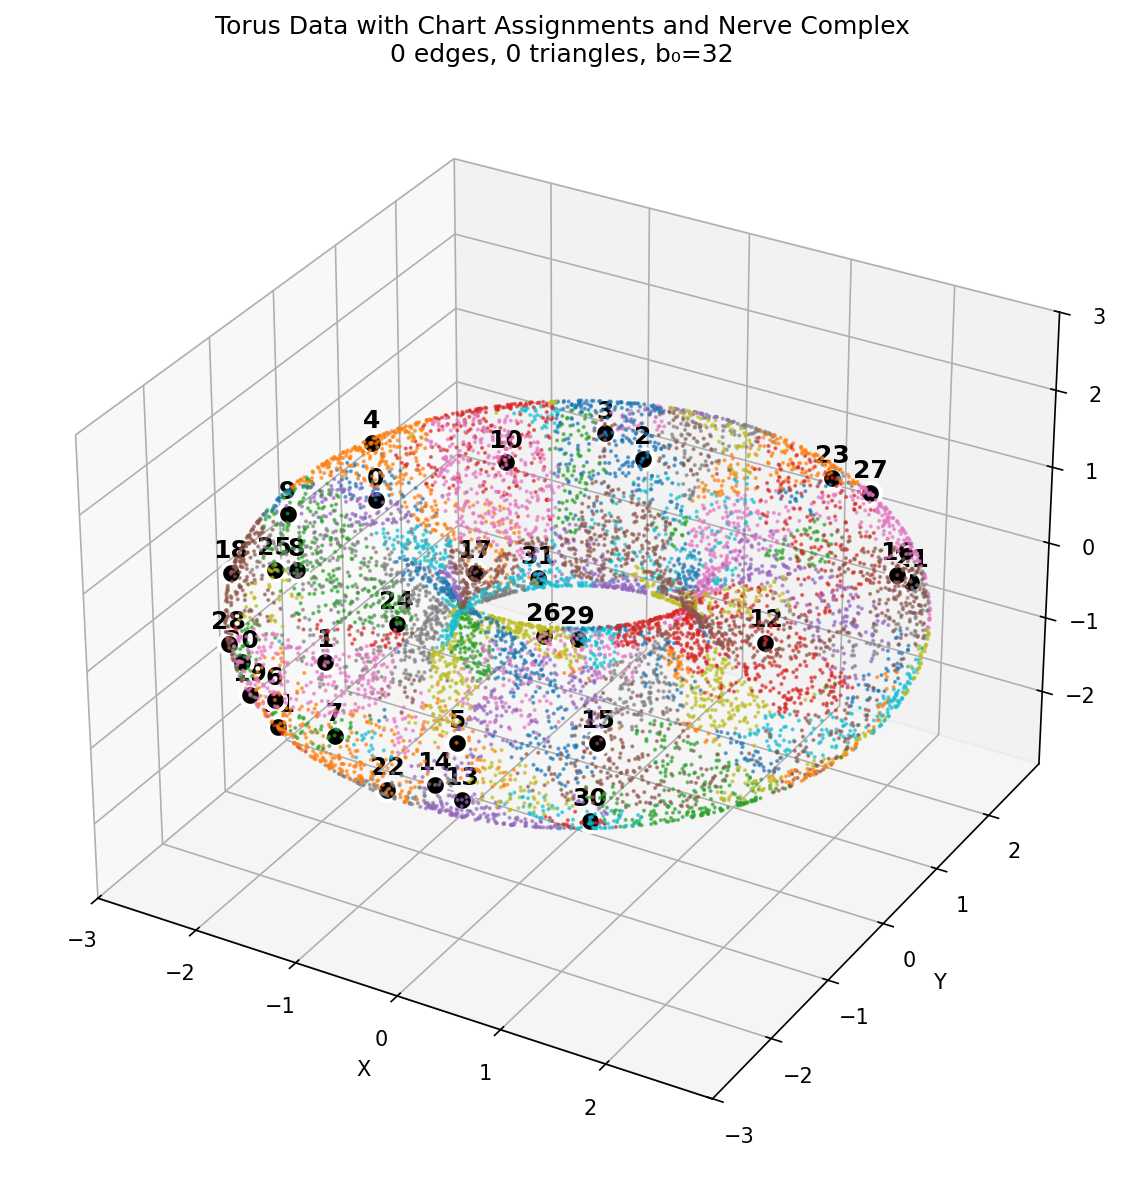
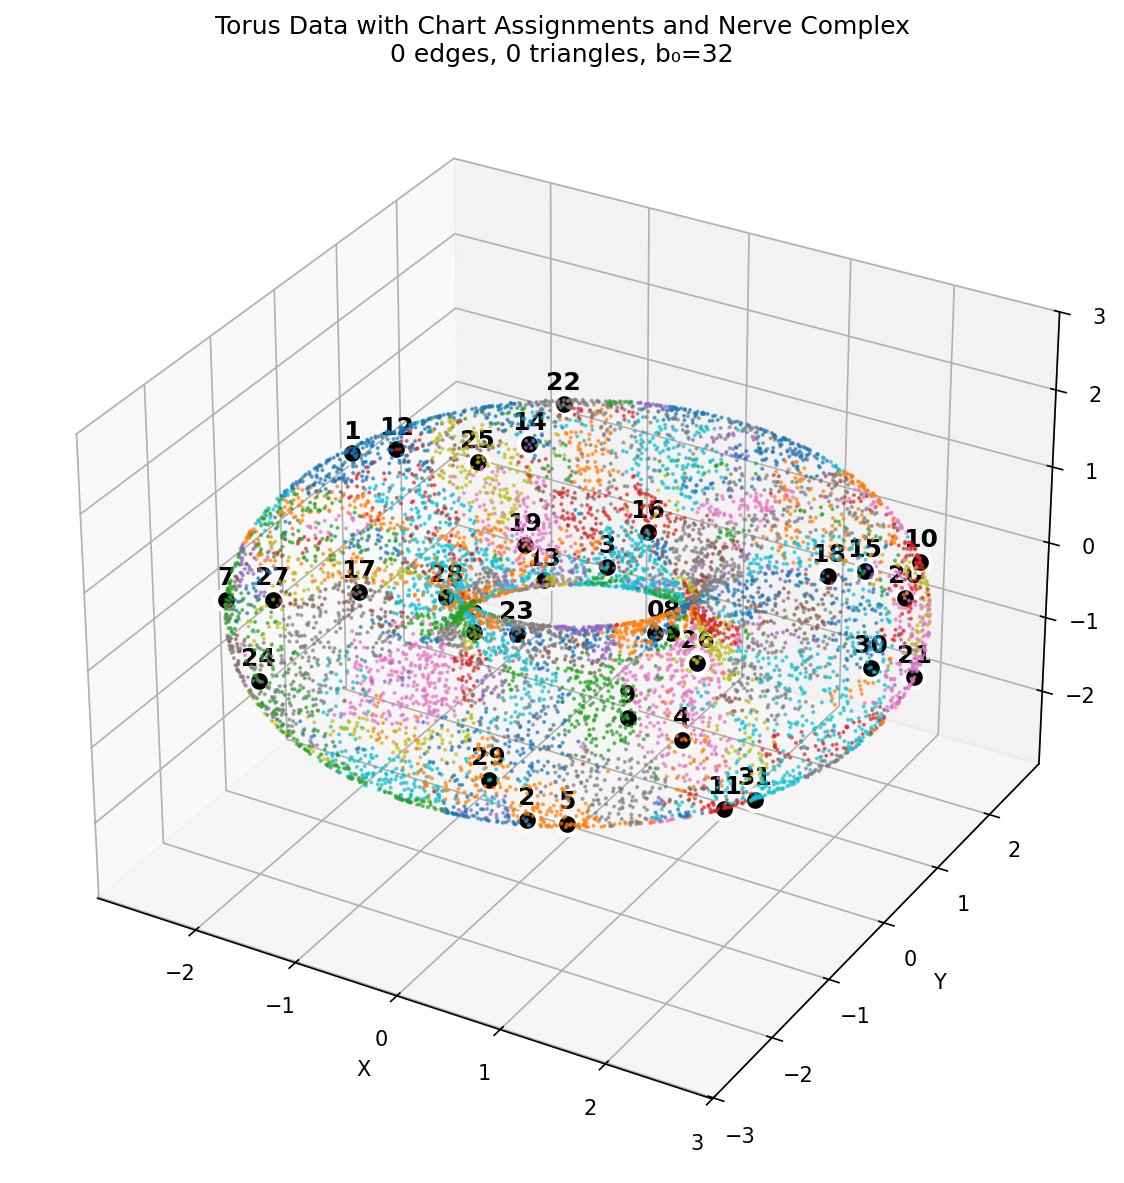
meow

diff --git a/atlas_autoencoder.py b/atlas_autoencoder.py
@@ -10,7 +10,7 @@ import seaborn as sns
 
 
 class BettiEstimator:
-    def __init__(self, num_charts: int, tau: float = 0.035):
+    def __init__(self, num_charts: int, tau: float = 0.5):
         self.num_charts = num_charts
         self.tau = tau
         self.overlap_weights = torch.zeros((num_charts, num_charts))
@@ -420,6 +420,54 @@ class BettiEstimator:
         plt.show()
         
         return fig
+    
+    def visualize_chart_topology(self, model, alpha: torch.Tensor, save_path: str = "chart_topology.png"):
+        """Visualize the topographic organization of charts"""
+        grid_size = model.chart_grid_size
+        positions = model.chart_positions
+        
+        # Create grid visualization
+        fig, (ax1, ax2) = plt.subplots(1, 2, figsize=(12, 5))
+        
+        # Plot 1: Chart usage in grid layout
+        chart_usage = alpha.mean(dim=0).numpy()
+        usage_grid = np.zeros((grid_size, grid_size))
+        
+        for i in range(model.num_charts):
+            row, col = positions[i].int().tolist()
+            if row < grid_size and col < grid_size:
+                usage_grid[row, col] = chart_usage[i]
+        
+        im1 = ax1.imshow(usage_grid, cmap='viridis', interpolation='nearest')
+        ax1.set_title('Chart Usage (Topographic Layout)')
+        ax1.set_xlabel('Grid Column')
+        ax1.set_ylabel('Grid Row')
+        
+        # Add text annotations
+        for i in range(model.num_charts):
+            row, col = positions[i].int().tolist()
+            if row < grid_size and col < grid_size:
+                ax1.text(col, row, f'{i}', ha='center', va='center', 
+                        color='white' if chart_usage[i] < chart_usage.max()/2 else 'black',
+                        fontsize=8, weight='bold')
+        
+        plt.colorbar(im1, ax=ax1, shrink=0.8)
+        
+        # Plot 2: Spatial distances between charts
+        spatial_distances = torch.cdist(positions, positions).numpy()
+        im2 = ax2.imshow(spatial_distances, cmap='plasma', interpolation='nearest')
+        ax2.set_title('Spatial Distances Between Charts')
+        ax2.set_xlabel('Chart Index')
+        ax2.set_ylabel('Chart Index')
+        plt.colorbar(im2, ax=ax2, shrink=0.8)
+        
+        plt.tight_layout()
+        plt.savefig(save_path, dpi=150, bbox_inches='tight')
+        plt.show()
+        
+        print(f"Chart grid size: {grid_size}x{grid_size}")
+        print(f"Active charts: {(chart_usage > 0.01).sum()}/{model.num_charts}")
+        print(f"Chart usage range: [{chart_usage.min():.4f}, {chart_usage.max():.4f}]")
 
 
 class AtlasAutoencoder(nn.Module):
@@ -428,6 +476,10 @@ class AtlasAutoencoder(nn.Module):
         self.input_dim = input_dim
         self.latent_dim = latent_dim
         self.num_charts = num_charts
+        
+        # Create 2D spatial layout for charts (for TopoLoss)
+        self.chart_grid_size = int(np.ceil(np.sqrt(num_charts)))
+        self.chart_positions = self._create_chart_positions()
         
         # Gating network g: R^D -> R^m
         self.gating = nn.Sequential(
@@ -457,7 +509,54 @@ class AtlasAutoencoder(nn.Module):
         # Betti number estimator
         self.betti_estimator = BettiEstimator(num_charts)
     
-    def forward(self, x: torch.Tensor) -> Tuple[torch.Tensor, torch.Tensor]:
+    def _create_chart_positions(self):
+        """Create 2D grid positions for charts (for TopoLoss)"""
+        positions = []
+        for i in range(self.num_charts):
+            row = i // self.chart_grid_size
+            col = i % self.chart_grid_size
+            positions.append([row, col])
+        return torch.tensor(positions, dtype=torch.float32)
+    
+    def compute_topo_loss(self, logits: torch.Tensor, sigma: float = 1.0) -> torch.Tensor:
+        """
+        Compute TopoLoss on gating network logits to encourage spatial organization.
+        
+        Args:
+            logits: [batch, num_charts] - raw gating network outputs
+            sigma: spatial kernel width for distance weighting
+        
+        Returns:
+            TopoLoss value encouraging nearby charts to have similar activations
+        """
+        batch_size = logits.shape[0]
+        
+        # Compute pairwise distances between chart positions
+        positions = self.chart_positions.to(logits.device)
+        pos_diffs = positions.unsqueeze(0) - positions.unsqueeze(1)  # [num_charts, num_charts, 2]
+        spatial_distances = torch.norm(pos_diffs, dim=2)  # [num_charts, num_charts]
+        
+        # Gaussian spatial kernel - closer charts should have more similar activations
+        spatial_weights = torch.exp(-spatial_distances**2 / (2 * sigma**2))
+        
+        # For each sample in batch, compute weighted activation differences
+        topo_loss = 0.0
+        for b in range(batch_size):
+            logits_b = logits[b]  # [num_charts]
+            
+            # Compute pairwise differences in activations
+            activation_diffs = (logits_b.unsqueeze(0) - logits_b.unsqueeze(1))**2  # [num_charts, num_charts]
+            
+            # Weight by spatial proximity - penalize differences between nearby charts
+            weighted_diffs = spatial_weights * activation_diffs
+            
+            # Sum over all chart pairs (exclude diagonal)
+            mask = torch.eye(self.num_charts, device=logits.device) == 0
+            topo_loss += weighted_diffs[mask].sum()
+        
+        return topo_loss / batch_size
+    
+    def forward(self, x: torch.Tensor) -> Tuple[torch.Tensor, torch.Tensor, torch.Tensor]:
         batch_size = x.shape[0]
         
         # Compute soft chart weights α_i = softmax(g(x))
@@ -476,7 +575,7 @@ class AtlasAutoencoder(nn.Module):
         alpha_expanded = alpha.unsqueeze(1)  # [batch, 1, num_charts]
         x_hat = torch.sum(x_hat_stack * alpha_expanded, dim=2)  # [batch, input_dim]
         
-        return x_hat, alpha
+        return x_hat, alpha, logits
     
     def get_betti_numbers(self, alpha: torch.Tensor) -> Tuple[int, int]:
         """Estimate Betti numbers from current chart activations"""
@@ -497,19 +596,22 @@ def generate_torus_data(n_samples: int = 10000, R: float = 2.0, r: float = 1.0) 
     return torch.stack([x, y, z], dim=1)
 
 
-def compute_loss(x_hat: torch.Tensor, x: torch.Tensor, alpha: torch.Tensor, 
-                 lambda_ent: float = -0.5) -> Tuple[torch.Tensor, torch.Tensor, torch.Tensor]:
-    """Compute reconstruction and entropy losses."""
+def compute_loss(model, x_hat: torch.Tensor, x: torch.Tensor, alpha: torch.Tensor, logits: torch.Tensor,
+                 lambda_ent: float = -0.5, lambda_topo: float = 0.01) -> Tuple[torch.Tensor, torch.Tensor, torch.Tensor, torch.Tensor]:
+    """Compute reconstruction, entropy, and topographic losses."""
     # Reconstruction loss
     loss_rec = F.mse_loss(x_hat, x)
     
     # Entropy regularization: -Σ α_i log α_i
     loss_ent = -torch.sum(alpha * torch.log(alpha + 1e-8), dim=1).mean()
     
-    # Total loss
-    loss_total = loss_rec + lambda_ent * loss_ent
+    # TopoLoss on gating network output
+    loss_topo = model.compute_topo_loss(logits)
     
-    return loss_total, loss_rec, loss_ent
+    # Total loss
+    loss_total = loss_rec + lambda_ent * loss_ent + lambda_topo * loss_topo
+    
+    return loss_total, loss_rec, loss_ent, loss_topo
 
 
 def train_atlas_autoencoder():
@@ -528,8 +630,8 @@ def train_atlas_autoencoder():
     for epoch in range(1001):
         optimizer.zero_grad()
         
-        x_hat, alpha = model(train_data)
-        loss_total, loss_rec, loss_ent = compute_loss(x_hat, train_data, alpha)
+        x_hat, alpha, logits = model(train_data)
+        loss_total, loss_rec, loss_ent, loss_topo = compute_loss(model, x_hat, train_data, alpha, logits)
         
         loss_total.backward()
         optimizer.step()
@@ -539,7 +641,7 @@ def train_atlas_autoencoder():
             with torch.no_grad():
                 debug_flag = epoch == 11000  # Debug on final epoch
                 b_0, b_1 = model.betti_estimator.estimate_betti_numbers(alpha.cpu(), debug=debug_flag)
-            print(f"Epoch {epoch}: Total={loss_total:.4f}, Rec={loss_rec:.4f}, Ent={loss_ent:.4f}, b₀={b_0}, b₁={b_1}")
+            print(f"Epoch {epoch}: Total={loss_total:.4f}, Rec={loss_rec:.4f}, Ent={loss_ent:.4f}, Topo={loss_topo:.4f}, b₀={b_0}, b₁={b_1}")
     
     return model, train_data
 
@@ -552,12 +654,12 @@ if __name__ == "__main__":
     with torch.no_grad():
         # Use a subset for reconstruction test
         test_data = data[:1000]
-        x_hat, alpha = model(test_data)
+        x_hat, alpha, _ = model(test_data)
         rec_error = F.mse_loss(x_hat, test_data)
         print(f"Final reconstruction error: {rec_error:.6f}")
         
         # Get alpha for full dataset for visualization
-        _, alpha_full = model(data)
+        _, alpha_full, _ = model(data)
         
         # Show chart usage
         chart_usage = alpha_full.mean(dim=0)
@@ -573,9 +675,13 @@ if __name__ == "__main__":
         
         # Visualize reconstruction quality
         print("\nGenerating reconstruction comparison...")
-        x_recon_full, _ = model(data)
+        x_recon_full, _, _ = model(data)
         error_mag = model.betti_estimator.visualize_reconstruction_3d(data.cpu(), x_recon_full.cpu())
         
         # Visualize chart latent spaces
         print("\nGenerating chart latent space visualizations...")
-        model.betti_estimator.visualize_chart_latents(model, data.cpu(), alpha_full.cpu()) 
+        model.betti_estimator.visualize_chart_latents(model, data.cpu(), alpha_full.cpu())
+        
+        # Visualize topographic organization
+        print("\nGenerating chart topology visualization...")
+        model.betti_estimator.visualize_chart_topology(model, alpha_full.cpu()) 
